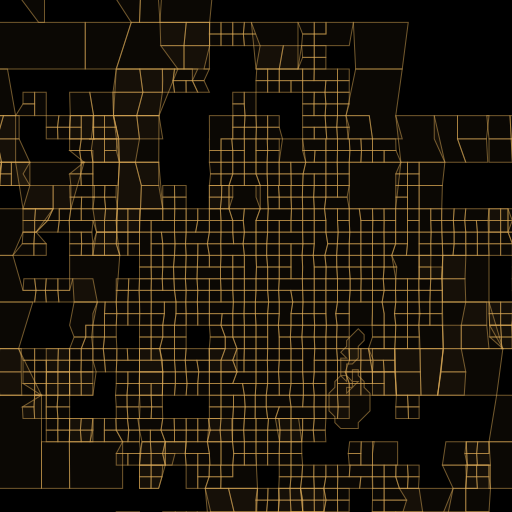
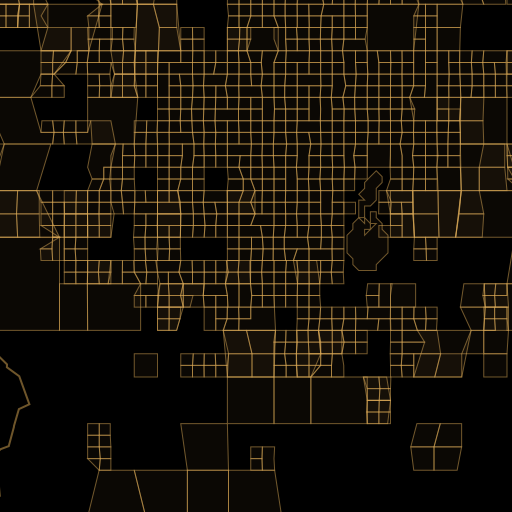
"fixing" a bug

diff --git a/lib/remove-intersecting-elements.ts b/lib/remove-intersecting-elements.ts
@@ -28,7 +28,15 @@ function removeIntersectingElements(
                 (feature: GeoJSON.Feature) =>
                     _.any(
                         higherPriorityFeatures,
-                        (higherPriorityFeature: GeoJSON.Feature) => turfIntersect(higherPriorityFeature, feature)
+                        (higherPriorityFeature: GeoJSON.Feature) => {
+                            try {
+                                return turfIntersect(higherPriorityFeature, feature);
+                            } catch (e) {
+                                // *le sigh* https://github.com/Turfjs/turf-intersect/issues/11
+                                logger.debug(e, 'Caught error on turf-intersect');
+                                return false;
+                            }
+                        }
                     )
             );
         })

diff --git a/lib/default-opts.ts b/lib/default-opts.ts
@@ -66,7 +66,7 @@ const defaults: IGenerateCityOpts = {
                 mergeThreshold: .75
             }
         },
-        removeIntersectingElements: false,
+        removeIntersectingElements: true,
         seed: 'default-seed'
     };
 
